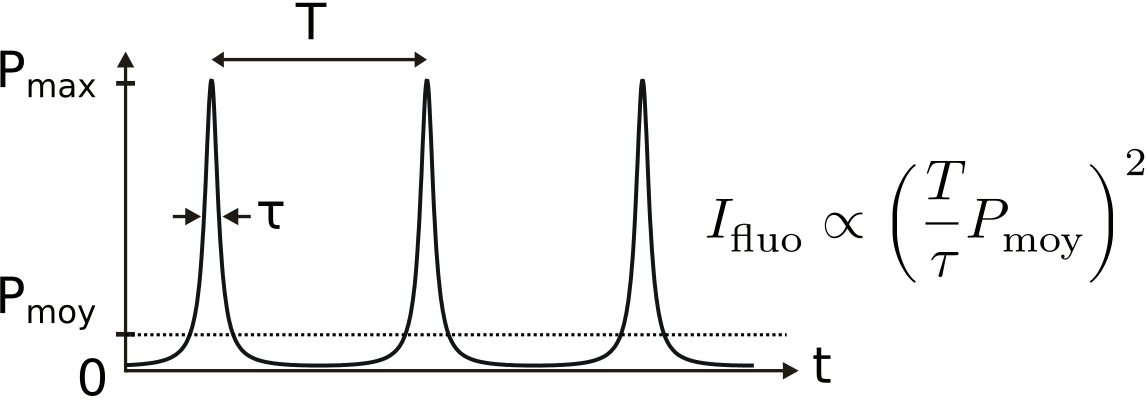
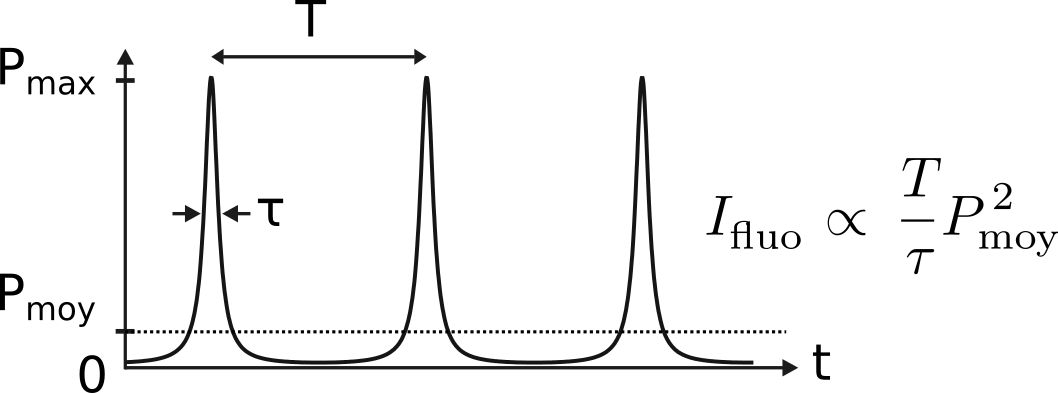
relecture C.Ventalon

Changed region(s): [[0.0, 0.1221, 1.0, 1.0], [0.2495, 0.0, 0.3119, 0.0916]]

diff --git a/split/chap3.tex b/split/chap3.tex
@@ -92,15 +92,15 @@ Un système optique peut concentrer la lumière localement, ce qui produit un po
 
 \begin{figure}[p]
     \centering
-    \includegraphics[width=0.8\textwidth]{./files/profile-intensity.png}
+    \includegraphics[width=0.75\textwidth]{./files/profile-intensity.png}
     \caption{Effet deux-photons en microscopie à feuille de lumière. Comparaison du profil d'intensité (haut) et de son carré (bas). On voit que la zone concernée par l'effet deux photons est restreinte, ce qui permet d'obtenir un sectionnement vertical comparable à la feuille de lumière 1P malgré une longueur d'onde plus élevée. On voit aussi que l'intensité décroit plus vite dans la direction de propagation, ce qui diminue le signal sur les bords du cerveau. (paramètres : indice optique 1.33, longueur d'onde 915 nm, waist 6.5 µm)}
     \label{FIG2P-intensity-profile}
     \end{figure}
 
 \begin{figure}[p]
     \centering
-    \includegraphics[width=\textwidth]{./files/pulsed_laser.svg.png}
-    \caption{Profil temporel de puissance d'un laser pulsé. Chaque impulsion a une durée $\tau$, elles sont espacées d'une durée $T=1/f$, où $f$ est la fréquence de répétition du laser. À puissance moyenne $P_\text{moy}$ constante, plus $\tau$ est petit, et plus $T$ est grand, plus la puissance maximale $P_\text{max}$ est grande. L'intensité de fluorescence en deux photons est proportionnelle au carré de $P_\text{max}$ alors qu'elle est proportionnelle à $P_\text{moy}$ en un photon.
+    \includegraphics[width=0.95\textwidth]{./files/pulsed_laser.svg.png}
+    \caption{Profil temporel de puissance d'un laser pulsé. Chaque impulsion a une durée $\tau$, elles sont espacées d'une durée $T=1/f$, où $f$ est la fréquence de répétition du laser. À puissance moyenne $P_\text{moy}$ constante, plus $\tau$ est petit, et plus $T$ est grand, plus la puissance maximale $P_\text{max}$ est grande. L'intensité de fluorescence en deux photons est proportionnelle à la moyenne du carré de l'intensité alors qu'en un photon elle est proportionnelle à l'intensité moyenne \cite{maioli_fast_2020}.
     }
     \label{FIGpulsed-laser}
     \end{figure}
@@ -185,7 +185,7 @@ Les idées de fibre à réseau de tubes unique et de fibres à cœur hypocycloï
 
 % Dans un microscope statique, la source laser peut être guidée jusqu'à l'échantillon par des miroirs, mais dans un microscope mobile il faut soit embarquer la source laser directement sur le microscope, soit la guider de manière flexible quels que soient les mouvements. Dans le cas d'une source laser deux photons très volumineuse, il est impossible de l'embarquer, la solution adoptée est donc une fibre optique adaptée. De telles fibres optiques capables de guider un laser deux photons sont complexes à produire. Avant de nous intéresser aux microscopes à fibre couramment utilisés dans la recherche sur le rongeur, introduisons les caractéristiques d'un guide d'onde. 
 
-Les propriétés de guidage de la lumière d'une fibre optique lui permettent d'alléger considérablement ou de déporter certaines parties des microscopes pour les rendre compatibles avec l'imagerie embarquée. Un microscope est en effet composé d'un axe d'illumination, d'un échantillon, et d'un axe de détection. Les axes peuvent être séparés dans différents bras ou réunis sur une portion du montage optique et sont généralement composés d'éléments optiques rigides passifs tels que des objectifs, miroirs, filtres... Ces différentes parties parfois très volumineuses peuvent être remplacées ou déportées à l'aide d'une fibre optique. Nous allons voir par la suite plusieurs types de microscopes embarqués utilisant une fibre optique.
+Les propriétés de guidage de la lumière d'une fibre optique lui permettent d'alléger considérablement ou de déporter certaines parties des microscopes pour les rendre compatibles avec l'imagerie embarquée. Un microscope est en effet composé d'un axe d'illumination, d'un échantillon, et d'un axe de détection. Les axes peuvent être séparés dans différents bras ou réunis sur une portion du montage optique et sont généralement composés d'éléments optiques rigides passifs tels que des objectifs, miroirs, filtres... Ces différentes parties parfois très volumineuses peuvent être remplacées ou déportées à l'aide d'une fibre optique. Après avoir montré les problèmes d'un microscope statique (section \ref{rongeur_fixe}), nous allons voir plusieurs types de microscopes embarqués utilisant une fibre optique.
 
 \begin{figure}
 \centering
@@ -206,7 +206,7 @@ e. Un endoscope sans optique permet de réduire considérablement l'encombrement
 % 1P vs 2P
 % Fiber optic in vivo imaging in the mammalian nervous system
 
-\subsubsection{Imagerie sur rongeur à tête fixée}
+\subsubsection{Imagerie sur rongeur à tête fixée}\label{rongeur_fixe}
 
 Une méthode répandue en imagerie cérébrale sur rongeur est de fixer un animal sous un microscope classique immobile. Le cerveau est rendu accessible par une opération chirurgicale pendant laquelle la boîte crânienne est retirée localement et remplacée par une vitre. Le fait d'immobiliser la tête pendant l'imagerie peut limiter le répertoire comportemental et constituer une gêne pour l'animal. Une solution est un système où le rat se positionne volontairement sous le microscope \cite{scott_cellular_2013}, une autre est le système en réalité virtuelle. Dans cette deuxième solution, le rongeur marche sur une boule en polystyrène sur coussins d'air alors qu'un environnement visuel est projeté sur un écran autour de lui \cite{dombeck_functional_2010}. Le microscope est ici entièrement statique et rigide. La réalité virtuelle a également été utilisée avec des enregistrements en électrophysiologie \cite{aronov_engagement_2014}\cite{whitlock_navigating_2014}.
 
@@ -219,23 +219,23 @@ Une méthode répandue en imagerie cérébrale sur rongeur est de fixer un anima
 
 \subsubsection{Déportation de l'illumination}
 
-Une pièce particulièrement volumineuse dans les microscopes multiphotons utilisée pour l'imagerie neuronale est le laser pulsé. En effet, ces systèmes dépendent de beaucoup d'éléments optiques et d'une stabilité thermique et mécanique poussée. Pour construire des microscopes embarqués, il est donc nécessaire de guider le laser depuis la source jusqu'à l'échantillon, ce qui est réalisé à l'aide de fibre optique. Il est possible d'utiliser une fibre optique monomode à cœur de verre \cite{helmchen_miniature_2001} \cite{sawinski_visually_2009} \cite{zong_fast_2017} à condition de précompenser la dispersion pour conserver une impulsion suffisamment courte pour produire l'effet non linéaire recherché, ce qui est réalisé avec une paire de réseaux de diffraction. Une alternative est d'utiliser une fibre à cœur creux \cite{tai_two-photon_2004} \cite{choi_improving_2014} \cite{piyawattanametha_vivo_2009} \cite{klioutchnikov_three-photon_2020}.
-La partie de détection est quant à elle également embarquée. On peut avoir un simple photomultiplicateur/photodiode pour l'imagerie par balayage \cite{helmchen_miniature_2001} ou un capteur CMOS pour une imagerie en champ plein \cite{scott_imaging_2018}.
+Une pièce particulièrement volumineuse dans les microscopes multiphotons utilisée pour l'imagerie neuronale est le laser pulsé. En effet, ces systèmes dépendent de beaucoup d'éléments optiques et d'une stabilité thermique et mécanique poussée. Pour construire des microscopes embarqués, il est donc nécessaire de guider le laser depuis la source jusqu'à l'échantillon, ce qui est réalisé à l'aide de fibre optique. Il est possible d'utiliser une fibre optique monomode à cœur de verre \cite{helmchen_miniature_2001} à condition de précompenser la dispersion pour conserver une impulsion suffisamment courte pour produire l'effet non linéaire recherché, ce qui est réalisé avec une paire de réseaux de diffraction. Une alternative est d'utiliser une fibre à cœur creux \cite{piyawattanametha_vivo_2009}.
+Dans certains cas, la détection est embarquée par exemple avec un simple photomultiplicateur/photodiode pour l'imagerie par balayage \cite{helmchen_miniature_2001} alors que dand d'autres, elle est également déportée, comme on le voit dans la partie suivante.
 
-\subsubsection{Déportation de l'illumination et de la détection}
+\subsubsection{Déportation de la détection}
 
-Dans les exemples précédents, le laser est amené par une fibre, mais le capteur est sur place, le signal repartant sous forme de signal électrique. Il est également possible de déporter le système de détection en collectant la lumière par fibre optique. Certains utilisent pour cela une fibre multimode \cite{piyawattanametha_vivo_2009} \cite{sawinski_visually_2009}, d'autres une \emph{fibre plastique} \cite{klioutchnikov_three-photon_2020}, d'autres encore un faisceau de fibres \cite{zong_fast_2017}. Dans ce cas, la lumière collectée est mesurée en sortie de fibre à l'aide d'un système optique adapté sans limite d'encombrement. On peut ainsi utiliser des systèmes volumineux et sensibles aux vibrations comme des sources laser régulés en température ou des circuits de détection munis d'une électronique complexe.
+Il est possible de déporter le système de détection en collectant la lumière au moyen d'une fibre optique. Certains utilisent pour cela une fibre multimode \cite{piyawattanametha_vivo_2009} \cite{sawinski_visually_2009}, d'autres une \emph{fibre plastique} \cite{klioutchnikov_three-photon_2020}, d'autres encore un faisceau de fibres \cite{zong_fast_2017}. Dans ce cas, la lumière collectée est mesurée en sortie de fibre à l'aide d'un système optique adapté sans limite d'encombrement.
 
 \subsubsection{Lentilles à gradient d'indice}
 
-Malgré la déportation de l'illumination et de la détection, les systèmes optiques restent encore assez volumineux du fait des composants utilisés et des éléments mécaniques nécessaires. Une possibilité pour pousser la miniaturisation encore plus loin est d'utiliser des fibres à gradient d'indice (\emph{GRIN lens, GRadient INdex lens}). Ces fibres sont constituées d'un milieu à gradient d'indice qui leur donne des propriétés similaires à des lentilles mais sont plus fines et ne nécessitent pas d'éléments mécaniques. Cela permet d'obtenir des microscopes ultra-compacts portables et de poids très réduit \cite{flusberg_vivo_2005}\cite{engelbrecht_ultra-compact_2008}.
+Malgré la déportation de l'illumination et de la détection, les systèmes optiques restent encore assez volumineux du fait des composants utilisés et des éléments mécaniques nécessaires. Une des possibilités pour miniaturisater davantage est d'utiliser des lentilles à gradient d'indice (\emph{GRIN lens, GRadient INdex lens}). Ces fibres sont constituées d'un milieu à gradient d'indice qui leur donne des propriétés similaires à des lentilles mais sont plus fines et ne nécessitent pas d'éléments mécaniques. Cela permet d'obtenir des microscopes ultra-compacts portables et de poids très réduit \cite{flusberg_vivo_2005}\cite{engelbrecht_ultra-compact_2008}.
 
 \subsubsection{Microendoscopes}
 
 % IGN VolkerComment2
 % Why do you describe this. Where is the link to your work? You can use this in the discussion and propose that your fiber can be also used to collect the fluorescent light. With the small mode field diameter this would create a confocal like configuration.
 
-D'autres techniques d'imagerie neuronale se passent même d'optique et sont uniquement constitués d'une fibre insérée dans l'échantillon. On parle alors plutôt de microendoscope. L'idée générale est d'utiliser la même fibre pour éclairer l'échantillon et collecter la lumière. Des éléments actifs peuvent être utilisés pour moduler le front d'onde, et plusieurs techniques reposent sur une phase de calibration préalable \cite{papadopoulos_high-resolution_2013}\cite{ohayon_minimally_2018}\cite{turtaev_high-fidelity_2018}. Ces techniques utilisent des fibres optiques multimodes classiques. L'avantage de l'endoscopie est que les tissus sont traversés par la fibre, et pas directement par la lumière, ce qui contourne le phénomène de dispersion. Il existe également des systèmes plus sophistiqués qui combinent plusieurs fibres en une seule de manière à profiter de propriétés différentes pour l'émission et collection de lumière \cite{andresen_two-photon_2013}\cite{kudlinski_double_2020}\cite{lombardini_high-resolution_2018}.
+D'autres techniques d'imagerie neuronale se passent même d'optique et sont uniquement constitués d'une fibre insérée en profondeur dans l'échantillon. On parle alors plutôt de microendoscope. L'idée générale est d'utiliser la même fibre pour éclairer l'échantillon et collecter la lumière. Des éléments actifs peuvent être utilisés pour moduler le front d'onde, et plusieurs techniques reposent sur une phase de calibration préalable \cite{papadopoulos_high-resolution_2013}\cite{ohayon_minimally_2018}\cite{turtaev_high-fidelity_2018}. Ces techniques utilisent des fibres optiques multimodes classiques. L'avantage de l'endoscopie est que les tissus sont traversés par la fibre, et pas directement par la lumière, ce qui contourne le phénomène de dispersion. Il existe également des systèmes plus sophistiqués qui combinent plusieurs fibres en une seule de manière à profiter de propriétés différentes pour l'émission et collection de lumière \cite{andresen_two-photon_2013}.
 
 
 
@@ -254,7 +254,7 @@ Nous avons vu dans la partie précédente qu'une fibre optique permet de guider 
 % OK VolkerComment2
 % No, we did not record with these fibers. The mode field diameter was to large and the instabilities to bending were to large. Or do you have successful recordings with these fibers? The Brighton experiments were done with the fiber PMC-C-1C-R&D2
 
-Au début, nous avons utilisé des fibres Kagome ayant une bande de transmission dans l'infrarouge. Ces fibres ont permis de réaliser les premiers enregistrements deux photons de l'activité neuronale mais sont sensibles aux déformations, ce qui empêche l'enregistrement lors de la rotation du microscope. Ensuite, nous avons cherché à permettre à la fois la transmission d'un laser 1P et 2P, d'où l'utilisation de fibres avec plusieurs bandes de transmission. Parmi ces fibres, nous avons retenu le modèle PMC-C-9005 B2 qui permet une bonne transmission (97\% à 930 nm sur 1,5 m de fibre contre 70\% pour PMC-C-1C-R\&D2) (Fig. \ref{FIGfibercomparison}). J'utilise ce modèle comme référence par la suite.
+Au début, nous avons utilisé des fibres Kagome ayant une bande de transmission dans l'infrarouge. Ces fibres ont permis de réaliser les premiers enregistrements deux photons de l'activité neuronale mais sont sensibles aux déformations, ce qui empêche l'enregistrement lors de la rotation du microscope. Ensuite, nous avons cherché à permettre à la fois la transmission d'un laser 1P et 2P, d'où l'utilisation de fibres avec plusieurs bandes de transmission. Parmi ces fibres, nous avons retenu le modèle à courbure négative PMC-C-9005 B2 qui permet une bonne transmission (97\% à 930 nm sur 1,5 m de fibre contre 70\% pour PMC-C-1C-R\&D2) (Fig. \ref{FIGfibercomparison}). J'utilise ce modèle comme référence par la suite.
 
 \begin{figure}
     \centering
@@ -269,7 +269,7 @@ Au début, nous avons utilisé des fibres Kagome ayant une bande de transmission
 
 % OK Volker Add a motivation (for 1P)
 
-Une fibre capable de guider à la fois un laser 1P et un laser 2P permettrait de réaliser l'acquisition du cerveau en changeant facilement la longueur d'onde d'excitation et de mettre en évidence les différences dans l'activité neuronale causées par l'environnement visuel. Un autre avantage non négligeable est de faciliter l'alignement du système optique et de l'échantillon, plus difficile en lumière infrarouge. Je décris ici le processus d'injection dans une fibre et le montage que j'ai mis en place pour passer du laser 1P au laser 2P à l'aide d'un miroir amovible. 
+Une fibre capable de guider à la fois un laser 1P et un laser 2P permettrait de réaliser l'imagerie du cerveau en changeant facilement la longueur d'onde d'excitation et de mettre en évidence les différences dans l'activité neuronale causées par l'environnement visuel. Un autre avantage non négligeable est de faciliter l'alignement du système optique et de l'échantillon, plus difficile en lumière infrarouge. Je décris ici le processus d'injection dans une fibre et le montage que j'ai mis en place pour passer du laser 1P au laser 2P à l'aide d'un miroir amovible. 
 
 \subsubsection{Principe}
 
@@ -303,7 +303,7 @@ J'ai fixé une extrémité de la fibre sur une platine de translation $xyz$ à 4
     \includegraphics[width=\textwidth]{./files/injection+graystack_1P2P.svg.png}
     \caption{Injection des deux lasers dans la fibre et images ainsi obtenues.
     \\a. Pour aligner la source 1P et 2P, on injecte dans un premier temps un laser visible par l'autre extrémité de la fibre et l'on joue sur les miroirs M1 et M2 pour pointer vers la sortie du laser 2P. Une fois les miroirs préalignés, on règle le laser 2P et on optimise la puissance en sortie de la fibre avec les miroirs M1 et M2 et la platine xyz. Ensuite, on escamote le miroir M2 pour aligner le laser 1P avec les miroirs M3 et M4 sans toucher à la platine xyz. Le miroir M2 est amovible et permet de basculer entre l'injection 1P et 2P. (BEX = \emph{Beam Expander}, IL = \emph{Injection Lens}, NCF = \emph{Negative Curvature Fiber})
-    \\ b. Comparaison entre un volume statique imagé en deux photons (2P) et en un photon (1P). Le volume deux photons est imagé en deux parties pour éviter d’illuminer les yeux (on voit nettement l’ombre de l'œil sur la coupe sagittale en un photon). Le pas est de 1 μm par couche. Le temps d'exposition est de 10 ms dans les deux cas.
+    \\ b. Comparaison entre un volume statique imagé en deux photons (2P) et en un photon (1P). Le volume deux photons est imagé en deux parties pour éviter d’illuminer les yeux (on voit nettement l’ombre de l'œil sur la coupe sagittale en un photon). Le pas est de 1 $\mu$m par couche. Le temps d'exposition est de 10 ms dans les deux cas.
     \label{FIGinjectiongraystack}}
     \end{figure}
 
@@ -324,7 +324,7 @@ $$
 \Delta \lambda_t = \frac{\lambda^2}{c\Delta t}
 $$
 
-Pour une impulsion de 100 fs à 915 nm, cela donne un élargissement de l'ordre de 28 fs au bout d'un mètre de propagation dans la fibre, soit une perte de concentration de 30\% et donc une perte d'effet deux photons de 50\%. Heureusement, il est possible de pré-compenser cette dispersion à l'aide d'un système optique placé en amont de la fibre. Le laser \emph{Mai-Tai} est justement accompagné d'un élément \emph{Deepsee} qui permet une telle précompensation réglable de -8 900 à -24 500 fs² d'après la documentation.
+Pour une impulsion de 100 fs à 915 nm, cela donne un élargissement de l'ordre de 28 fs au bout d'un mètre de propagation dans la fibre. L'intensité deux photons étant inversement proportionelle à la durée d'impulsion, cela engendre une perte de signal de 22\% (1-100/128). Heureusement, il est possible de pré-compenser cette dispersion à l'aide d'un système optique placé en amont de la fibre. Le laser \emph{Mai-Tai} est justement accompagné d'un élément \emph{Deepsee} qui permet une telle précompensation réglable de -8 900 à -24 500 fs² d'après la documentation.
 
 % (citation documentation)
 % > The amount of dispersion, or GVD compensation, provided for each wavelength depends on the position of the DeepSee motor that moves optical material on a stage within the beam path.
@@ -354,8 +354,8 @@ En conditions réelles, on peut s'arranger pour limiter la courbure et répartir
     \\ a. La fibre est courbée sur un demi arc de cercle avec un rayon de courbure variable. Les puissance-mètres Pm1 et Pm2 mesurent l'intensité sur les deux bras de polarisation en sortie d'un cube monté sur un goniomètre. 
     \\ b. Pertes en sortie de fibre exprimé en dB par mètre de fibre courbée en fonction du rayon de courbure.
     \\ c. Profil d'intensité en sortie de fibre pour différentes courbures (non affecté).
-    \\ d. Pour une polarisation quasi circulaire, variation de l'ellipticité en fonction du diamètre de courbure.
-    \\ e. Pour une polarisation quasi linéaire, variation de l'angle de polarisation en fonction du diamètre de courbure.
+    \\ d. Pour une polarisation quasi circulaire, variation de l'ellipticité en fonction du diamètre de courbure (couleurs : répétitions de la mesure).
+    \\ e. Pour une polarisation quasi linéaire, variation de l'angle de polarisation en fonction du diamètre de courbure (couleurs : répétition de la mesure).
     \label{FIGfibercarac}}
     \end{figure}
 
@@ -588,7 +588,7 @@ Chaque tranche de liquide d'épaisseur $l$ apporte une contribution différente 
 
 \subsubsection{Temps caractéristique}
 
-L'effet de lentille thermique a une composante dynamique liée au temps d'établissement de l'équilibre de température. Cet effet a un temps caractéristique $t_c = \frac{w_z^2}{4D}$ qui dépend uniquement de la largeur du faisceau (on considère constante $k = 1.43\times 10^{-7} m^2/s$ la diffusivité thermique de l'eau). Au début de la propagation dans la cuve, le faisceau est large (1 mm), ce qui donne un temps caractéristique de l'ordre de plusieurs secondes. Près du waist, au contraire, ce temps est très court, de l'ordre de la microseconde. Il faut donc réaliser une simulation pour estimer la dynamique du système complet. 
+L'effet de lentille thermique a une composante dynamique liée au temps d'établissement de l'équilibre de température. Cet effet a un temps caractéristique $t_c = \frac{w_z^2}{4k}$ qui dépend uniquement de la largeur du faisceau (on considère constante $k = 1.43\times 10^{-7} m^2/s$ la diffusivité thermique de l'eau). Au début de la propagation dans la cuve, le faisceau est large (1 mm), ce qui donne un temps caractéristique de l'ordre de plusieurs secondes. Près du waist, au contraire, ce temps est très court, de l'ordre de la microseconde. Il faut donc réaliser une simulation pour estimer la dynamique du système complet. 
 % IGN modèle Tom
 En pratique, on constate un temps d'établissement de l'ordre de la seconde.
 % IGN mesures établissement
@@ -620,7 +620,7 @@ Le laser un photon pénètre les zones transparentes mais est absorbé par les z
 Si une zone transparente du tissu présente un niveau d'absorption légèrement trop élevé, la chaleur s'y accumule et donne lieu à un phénomène de cavitation. Une bulle de gaz se forme alors et grossit en déformant tous les tissus alentour, et en augmentant localement l'absorption. Si l'on augmente l'énergie des impulsions, le phénomène de cavitation apparaît plus facilement et s'auto-entretient. Le degré de phototoxicité augmente avec l'énergie portée par une impulsion. Même à énergie plus faible, il est possible que le laser touche un pigment et déclenche la cavitation.
 
 \subsubsection{Rapport signal à bruit}
-Le niveau de signal obtenu dans les enregistrements deux-photons est bien plus faible que dans les enregistrements un-photon. Avec les paramètres finaux (exposition, binning, puissance laser, lignées transgéniques...) la valeur d'un pixel de caméra correspondant à un neurone est de l'ordre de 2000 en un-photon et 800 en deux-photons, pour un niveau de bruit de 400 (le niveau de bruit pour un pixel est de 100, soit 400 après binning par 4 pixels). Un pixel correspondant à l'autofluorescence des tissus est autour de 600 en un-photon et tombe sous le niveau de bruit en deux-photons. Un rapport signal à bruit si faible pose plusieurs problèmes.
+Le niveau de signal obtenu dans les enregistrements deux-photons est bien plus faible que dans les enregistrements un-photon. Avec les paramètres finaux (exposition, binning, puissance laser, lignées transgéniques...) la valeur d'un pixel de caméra correspondant à un neurone est de l'ordre de 2000 en un-photon et 800 en deux-photons. Le bruit est blanc (DSP constante), gaussien, centré autour de 400 (le niveau de base pour un pixel est de 100, soit 400 après binning par 4 pixels) et avec un écart type de 5. Un pixel correspondant à l'autofluorescence des tissus est autour de 600 en un-photon mais tombe dans le bruit en deux-photons. Un rapport signal à bruit si faible pose plusieurs problèmes.
 \paragraph{Alignement sur le cerveau de référence}
 Un cerveau imagé en deux photons apparaît assez différent d'un cerveau en un photon. J'ai donc réalisé un cerveau de référence en deux photons dans l'espace de référence du laboratoire. Malgré cela, pour un rapport signal à bruit trop faible, l'alignement automatique sur le cerveau de référence est impossible. J'ai donc dû faire la plupart des alignements à la main en utilisant le logiciel 3DSlicer.
 \paragraph{Moyennage des cartes de phase}
@@ -641,7 +641,7 @@ Comme on l'a vu en partie \ref{solutionseffetthermique}, la solution adoptée en
     \caption{Comparaison entre l'acquisition un photon (1P) et deux photons (2P) en imagerie statique et dynamique.
     \\ a. Carte de réponse pour une stimulation en tangage imagée en 1P déjà montrée en figure \ref{FIGtiltroll}.
     \\ b. Légende des couleurs de la carte. Les noyaux nIII et nIV sont notés sur leur couleur dominante à titre indicatif.
-    \\ c, d. Cartes de réponse pour une stimulation en tangage imagée en 2P. En (b.) seule la partie supérieure du cerveau est imagée, en (c.), seule la partie inférieure est imagée.
+    \\ c, d. Cartes de réponse pour une stimulation en tangage imagée en 2P. En (c.) seule la partie supérieure du cerveau est imagée, en (d.), seule la partie inférieure est imagée.
     \label{FIG1P2P}}
     \end{figure}
 

diff --git a/split/chap0.tex b/split/chap0.tex
@@ -172,17 +172,17 @@ La fluorescence est un phénomène d’absorption-réémission de lumière par u
 \caption{Illustration du phénomène de fluorescence. À gauche, le point de vue quantique avec les niveaux d'énergie interne, à droite, les spectres d’absorption et d'émission qui en résultent.}
 \end{figure}
 
-Un des avantages de la microscopie à fluorescence est qu'avec un jeu de filtres adapté, on peut obtenir un excellent rapport signal à bruit. Ainsi, en plaçant sur la ligne de détection un filtre coupe-bande à la longueur d'onde du laser, on peut couper toute lumière venant de celui-ci. En ajoutant un filtre passe-bande vert, seule la lumière liée à la fluorescence est détectée.
+À l'aide d'un jeu de filtre adapté, on obtient des images sur fond noir, c'est-à-dire un bon rapport entre l'intensité du signal d'intérêt et du signal de fond. Par exemple, en plaçant sur la ligne de détection un filtre coupe-bande à la longueur d'onde du laser, on peut couper toute lumière venant de celui-ci. En ajoutant un filtre passe-bande vert, seule la lumière liée à la fluorescence est détectée. Cela représente un grand avantage de la microscopie à fluorescence.
 
 \subsubsection{Sectionnement optique}
 
 Si l'on éclaire l'ensemble d'un échantillon fluorescent et que l'on tente de l'imager avec un objectif de microscope, le rapport signal à bruit est catastrophique. En effet, pour collecter le maximum de lumière, il faut une grande ouverture numérique et donc une faible profondeur de champ. Un objet lumineux hors du plan focal apparaît donc totalement flou, ce qui constitue une lumière parasite qui couvre celle émise par les objets dans le plan focal. Il faut donc d'une manière ou d'une autre éliminer la lumière provenant d'en dehors du plan focal.
-
+ 
 \begin{figure}
   \centering
   \includegraphics[width=0.8\textwidth]{./files/optical_sectionning.svg.png}
   \caption{Sectionnement optique par différentes techniques \\
-  a. Microscopie confocale, un sténopé est placé de manière à bloquer la lumière provenant des points hors focus. \\
+  a. Microscopie confocale, un sténopé est placé dans le plan image de manière à bloquer la lumière provenant des points hors focus. \\
   b. Microscopie deux photons, l'effet deux photons permet d'exciter uniquement la fluorescence dans le point de focalisation du laser. \\
   c. Feuille de lumière, une nappe produite avec une lentille cylindrique éclaire une couche de l'échantillon. \\
   d. Balayage laser, une nappe produite par balayage laser éclaire une couche de l'échantillon. \\
@@ -191,8 +191,7 @@ Si l'on éclaire l'ensemble d'un échantillon fluorescent et que l'on tente de l
 
 \subsubsection{Microscopie confocale}
 
-Il existe pour cela plusieurs techniques dites de "sectionnement optique". La plus connue, la microscopie confocale, utilise une illumination focalisée en un seul point. L'objet en ce point est donc fortement éclairé, et le reste beaucoup moins. De plus, un sténopé conjugué à ce point ne laisse passer que la lumière qui en est issue. L'imagerie d'un plan est ensuite obtenue en scannant ce point dans le plan focal, et l'imagerie d'un volume en répétant l'opération pour plusieurs couches. Cette technique est largement répandue et déclinée, et a l'avantage d'être souple et d'atteindre des résolutions submicrométriques. Cependant, à cause du balayage point par point, elle ne peut pas combiner un nombre élevé de voxels ($\sim 10^8$ voxels) à une fréquence élevée ($\sim 1$ Hz) et doit sacrifier l'un pour l'autre. Elle est donc réservée soit à l'observation détaillée d'échantillons statiques, soit à l'observation peu détaillée d'échantillons dynamiques. Cette lenteur est liée au fait de scanner un seul point sur une surface, mais on peut gagner en vitesse au détriment du rapport signal à bruit en éclairant plusieurs points conjugués à plusieurs sténopés en même temps. C'est le principe du microscope confocal à disque rotatif (\emph{spinning disk}).
-
+Il existe pour cela plusieurs techniques dites de "sectionnement optique". La plus connue, la microscopie confocale, utilise une illumination focalisée en un seul point. L'objet en ce point est donc fortement éclairé, et le reste beaucoup moins. De plus, un sténopé conjugué à ce point ne laisse passer que la lumière qui en est issue. L'imagerie d'un plan est ensuite obtenue en scannant ce point dans le plan focal, et l'imagerie d'un volume en répétant l'opération pour plusieurs couches. Cette technique est largement répandue et déclinée, et a l'avantage d'être souple et d'atteindre des résolutions submicrométriques. Cependant, à cause du balayage point par point, elle ne peut pas combiner un nombre élevé de voxels ($\sim 10^8$ voxels) à une fréquence élevée ($\sim 1$ Hz) et doit sacrifier l'un pour l'autre. Elle est donc réservée soit à l'observation détaillée d'échantillons statiques, soit à l'observation peu détaillée d'échantillons dynamiques. Cette lenteur est liée au fait de scanner un seul point sur une surface, mais on peut gagner en vitesse en éclairant plusieurs points conjugués à plusieurs sténopés en même temps. Cela se fait au détriment du rapport entre le signal issu des points sélectionnés et des points hors focus qui sont soumis à une illumination d'autant plus forte que le nombre de points est élevé. C'est le principe du microscope confocal à disque rotatif (\emph{spinning disk}), très répandu dans les plateformes de bio-imagerie.
 
 \subsubsection{Microscopie deux photons}
 
@@ -200,10 +199,9 @@ La microscopie deux photons utilise une propriété non linéaire de la lumière
 
 \subsubsection{Microscopie à feuille de lumière}
 
-En microscopie confocale ou deux photons, l'illumination passe par le même objectif que la détection. Mais pour certains échantillons, l'éclairage peut également être fait par le côté. Une feuille de lumière coïncidant avec le plan focal de l'objectif peut être produite à l'aide d'une lentille cylindrique, ou bien par balayage d'un faisceau laser. C'est ce qu'on appelle la microscopie à feuille de lumière, microscopie à nappe laser, ou encore SPIM pour \emph{Single Plane Imaging Microscopy}. Cette technique, en dépit d'un rapport signal à bruit et d'une résolution inférieurs à la microscopie confocale, suffit pour réaliser l'imagerie à la résolution cellulaire. De plus, elle permet d'imager un plan entier d'un seul coup, ce qui est bien plus rapide. En scannant l'objectif et la feuille de lumière, on peut ainsi produire une imagerie volumique à fréquence bien plus élevée qu'en microscopie confocale. Par exemple, avec trente couches espacées de dix microns (taille moyenne d'un neurone), on peut acquérir l'ensemble du cerveau d'une larve de poisson zèbre à environ 2Hz.
+En microscopie confocale ou deux photons, l'illumination passe par le même objectif que la détection. Mais pour certains échantillons, l'éclairage peut également être fait par le côté. Une feuille de lumière coïncidant avec le plan focal de l'objectif peut être produite à l'aide d'une lentille cylindrique, ou bien par balayage d'un faisceau laser. C'est ce qu'on appelle la microscopie à feuille de lumière, microscopie à nappe laser, ou encore SPIM pour \emph{Single Plane Imaging Microscopy}. Cette technique, en dépit d'une résolution inférieure à la microscopie confocale, suffit pour réaliser l'imagerie à la résolution cellulaire. De plus, elle permet d'imager un plan entier d'un seul coup, ce qui est bien plus rapide. En scannant l'objectif et la feuille de lumière, on peut ainsi produire une imagerie volumique à fréquence bien plus élevée qu'en microscopie confocale. Par exemple, avec trente couches espacées de dix microns (taille moyenne d'un neurone), on peut acquérir l'ensemble du cerveau d'une larve de poisson zèbre à environ 2Hz.
 
 Si la microscopie par fluorescence à feuille de lumière est une technique particulièrement adaptée à la bio-imagerie fonctionnelle, son utilisation reste toutefois relativement limitée. En 2011, un article de revue pointait le manque de système commercial en microscopie à feuille de lumière \cite{santi_light_2011}. En 2017, un autre déplorait le faible niveau de propagation de cette technique au regard de ses performances \cite{power_guide_2017}. La technique reste donc cantonnée à des laboratoires capables de développer leur propre microscope, en dépit du succès qu'elle rencontre dans ses applications.
-
 
 
 \section[Chez la larve de poisson zèbre]{Intégration multisensorielle chez la larve de \\ poisson zèbre}

diff --git a/split/chap2.tex b/split/chap2.tex
@@ -19,7 +19,7 @@ Cette deuxième solution est plus performante, car elle reproduit réellement la
 
 \subsubsection{Unité d'illumination}
 
-Un microscope à feuille de lumière par balayage est généralement constitué de deux bras optiques formant un télescope de manière à placer le miroir rotatif galvanométrique de balayage dans le plan conjugué de l'échantillon. Ainsi, son mouvement de rotation est transformé en une pure translation du faisceau au niveau de l'échantillon. Ce montage est volumineux et inadapté à un microscope rotatif. Il a donc fallu le miniaturiser et garantir sa stabilité. Les télescopes ont été remplacés par des objectifs de microscope. Le plan de Fourier n'étant pas accessible à cause de la distance frontale arrière, le miroir galvanométrique est légèrement hors du plan conjugué, ce qui introduit une rotation du faisceau dans l'échantillon en plus de la translation. Cette rotation reste cependant faible (<0.4°), et compatible avec une feuille de lumière par balayage.  
+Un microscope à feuille de lumière par balayage est généralement constitué de deux bras optiques formant un télescope de manière à placer le miroir rotatif galvanométrique de balayage dans le plan de Fourier confondu des deux bras. Ainsi, son mouvement de rotation est transformé en une pure translation du faisceau au niveau de l'échantillon. Ce montage est volumineux et inadapté à un microscope rotatif. Il a donc fallu le miniaturiser et garantir sa stabilité. Les télescopes ont été remplacés par des objectifs de microscope. Le plan de Fourier n'étant pas accessible à cause de la distance frontale arrière, le miroir galvanométrique est légèrement en dehors, ce qui introduit une rotation du faisceau dans l'échantillon en plus de la translation. Cette rotation reste cependant faible (<0.4°), et compatible avec une feuille de lumière par balayage.  
 L'unité d'illumination est composée d'un connecteur de fibre monté sur un positionneur piézoélectrique et de deux objectifs en montage confocal de part et d'autre d'un miroir galvanométrique (Fig. \ref{FIGminiaturelightsheet}).
 
 \begin{figure}[b]
@@ -45,7 +45,7 @@ L'enjeu pour une unité de détection rapide est de permettre l'enregistrement a
 % OK VolkerComment
 % Originally, we did the experiments only with the notch filter. All photons emitted by the fluorophore were then collected which maximizes the signal. The GFP filter helps to block some additionally excited autofluorescence in the tissue. With the GFP filter the notch filter is not really anymore necessary. You can keep your figure but show the real GFP filter transmission spectrum in this case !
 
-Pour obtenir un bon rapport signal à bruit, il faut réduire la lumière parasite. Une source puissante est le laser d'illumination, elle peut être bloquée spécifiquement avec un filtre coupe bande très étroit à sa longueur d'onde. Un filtre GFP (passe-bande à la longueur d'onde de la GFP) permet de filtrer davantage l'autofluorescence des tissus (Fig. \ref{FIGspectralfiltering}). Après ce filtrage, les bruits restants sont le bruit de photon et le bruit numérique. Le bruit numérique pourrait être réduit avec un système de refroidissement prévu sur la caméra, mais celui-ci est trop encombrant pour le microscope rotatif, et a donc été retiré. Le bruit de photon ne peut être réduit qu'avec des meilleures sondes calciques ou en exposant plus longtemps, mais il est négligeable devant le bruit numérique d'une caméra non refroidie. Le bruit numérique présente une structure liée à la constitution interne du capteur et qui fait apparaître des raies de pixel et la ligne médiale de l'obturateur déroulant.
+Pour sélectionner le signal d'intérêt, il faut réduire la lumière parasite. Une source puissante est le laser d'illumination, elle peut être bloquée spécifiquement avec un filtre coupe bande très étroit à sa longueur d'onde. Un filtre GFP (passe-bande à la longueur d'onde de la GFP) permet de filtrer davantage l'autofluorescence des tissus (Fig. \ref{FIGspectralfiltering}). Après filtrage, les fluctuations non désirées du signal sont dues au bruit de photon et au bruit numérique. Le bruit numérique pourrait être réduit avec un système de refroidissement prévu sur la caméra, mais celui-ci est trop encombrant pour le microscope rotatif, et a donc été retiré. Le bruit de photon ne peut être réduit qu'avec des meilleures sondes calciques ou en exposant plus longtemps, mais il est négligeable devant le bruit numérique d'une caméra non refroidie. Le bruit numérique présente une structure liée à la constitution interne du capteur et qui fait apparaître des raies de pixel et la ligne médiale de l'obturateur déroulant.
 
 % OK VolkerComment
 % No! We do not filter out light from light sources in the room! The systems are shielded such that this light does not enter the detection path . The GFP filter filters additional excited autofluorescence.
